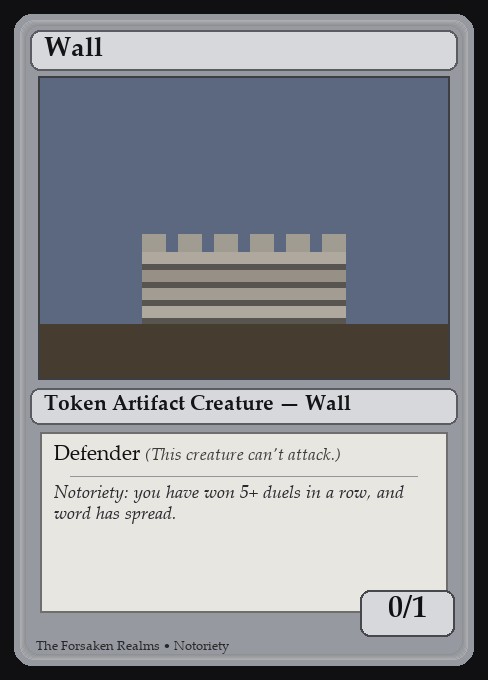
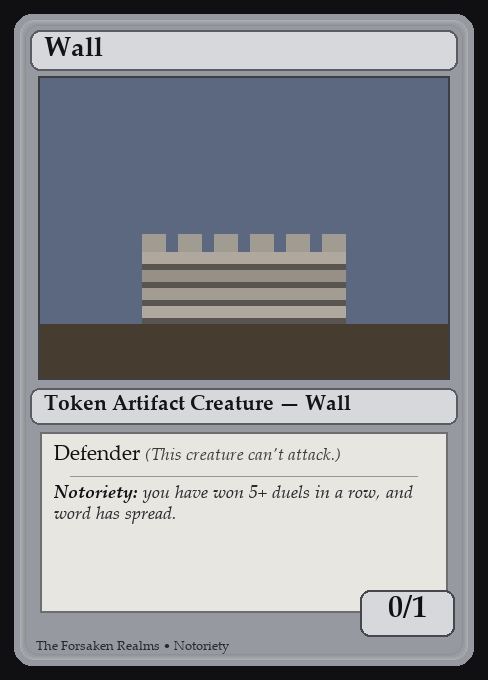
Round 417: no notoriety notice, a bold Notoriety line, quieter logs
- The notoriety Wall no longer opens a notice before each duel (the user: "It gets
  annoying. The card text informs the player"); the Wall card's why line now starts
  with a bold "Notoriety:" (make_wall_cards.py draw_why, the 12 cards rebuilt).
- [TFR-ShopEditions]: the build menu's per-shop card counts log nothing (one
  "recounted" line per town instead), and a shop with the same restriction as the
  line above prints "same as above" - a shared player log was half these lines.
- DuelScene: "Item N not found." only for a really missing item (stock printed it,
  without a newline, for every equipped item with no duel effect - a Rally rune).
- [TFR-InnEditions] picked= names the block and its sets, not its land set
  ("picked=M19" for an Ultimate Masters draft).

Changed region(s): [[0.123, 0.7103, 0.8607, 0.7412]]

diff --git a/forge-gui-mobile/src/forge/adventure/scene/DuelScene.java b/forge-gui-mobile/src/forge/adventure/scene/DuelScene.java
@@ -801,14 +801,6 @@ public class DuelScene extends ForgeScene {
                 + " and it forgets.";
     }
 
-    /** Round 411: what the player is told when notoriety hands an enemy a Wall. */
-    private static String notorietyNote(EnemyData e, String wallScript, forge.item.PaperToken wall) {
-        String extra = wallScript.contains("flying") ? " flying" : wallScript.contains("reach") ? " reach" : "";
-        return "Word of your " + Current.player().notorietyStreak() + " wins in a row has spread. "
-                + e.getTieredDisplayName() + " starts this duel with a " + wall.getRules().getPower() + "/"
-                + wall.getRules().getToughness() + extra + " Wall in play. Lose once, and the word dies down.";
-    }
-
     @Override
     public void enter() {
         winStreakNote = null; // round 404: set again below for each enemy seat on a win streak
@@ -899,8 +891,10 @@ public class DuelScene extends ForgeScene {
                 if (item != null && item.effect != null) {
                     playerEffects.add(item.effect);
                     if (item.effect.opponent != null) oppEffects.add(item.effect.opponent);
-                } else {
-                    System.err.printf("Item %s not found.", id);
+                } else if (item == null) {
+                    // Round 417: stock printed this for an item with no duel effect too (a Rally rune), and with no
+                    // newline, gluing it to the next log line. Only a really missing item is worth a line.
+                    System.err.println("Item " + id + " not found.");
                 }
             }
         }
@@ -1099,7 +1093,8 @@ public class DuelScene extends ForgeScene {
                     java.util.List<IPaperCard> walls = new java.util.ArrayList<>();
                     walls.add(wall);
                     aiPlayer.addExtraCardsOnBattlefield(walls);
-                    winStreakNote = (winStreakNote == null ? "" : winStreakNote + "\n\n") + notorietyNote(currentEnemy, wallScript, wall);
+                    // Round 417 (the user: "remove the Notoriety notification on each duel. It gets annoying. The card text
+                    // informs the player what's going on"): no notice - the Wall card's own Notoriety line explains it.
                     System.out.println("[TFR-Notoriety] " + currentEnemy.getName() + " (" + EnemyData.tierDisplayName(currentEnemy.tier)
                             + ") starts with " + wallScript + " (" + wall.getRules().getPower() + "/" + wall.getRules().getToughness()
                             + ") - " + Current.player().notorietyStreak() + " wins in a row, level " + Current.player().notorietyLevel());

diff --git a/forge-gui-mobile/src/forge/adventure/util/EditionProgression.java b/forge-gui-mobile/src/forge/adventure/util/EditionProgression.java
@@ -46,6 +46,8 @@ public class EditionProgression {
     private static final String[] GROUPS = {"white", "blue", "black", "red", "green", NEUTRAL};
     private static final String[] COLOR_GROUPS = {"white", "blue", "black", "red", "green"};
     private static final int NEUTRAL_SHARD_SIZE = 12;
+    /** Round 417: the town/owner/restriction of the last [TFR-ShopEditions] line, so a repeat prints short. */
+    private static String lastShopEditionsKey;
 
     /** Every real, obtainable edition this plane could ever show - the same CAN_MAKE_BOOSTER +
      *  hasBoosterTemplate filter the existing "cardPackShop" booster-generation code already uses
@@ -488,9 +490,17 @@ public class EditionProgression {
             editionRestriction = getEditionsForColor(world, ownerLabel);
         }
         String townName = rootPoint != null ? rootPoint.getData().name : "(unknown)";
-        System.out.println("[TFR-ShopEditions] shop=" + shopNameForLogging + " town=\"" + townName + "\""
-                + " owner=" + ownerLabel + " reason=" + reason + " trigger=" + trigger
-                + " restriction(" + editionRestriction.size() + ")=" + editionRestriction);
+        // Round 417 (a shared player log: 1,234 of these lines were half its 491 KB). The build menu's card counts
+        // ("shop-count", ~200 shop types per town visit) log nothing - EconomyBuildings.buyableCardCount prints one line
+        // per recount instead - and a shop with the same town/owner/restriction as the last line says so briefly.
+        if (!"shop-count".equals(trigger)) {
+            String key = townName + "|" + ownerLabel + "|" + reason + "|" + editionRestriction;
+            boolean same = key.equals(lastShopEditionsKey);
+            lastShopEditionsKey = key;
+            System.out.println("[TFR-ShopEditions] shop=" + shopNameForLogging + " town=\"" + townName + "\""
+                    + " owner=" + ownerLabel + " reason=" + reason + " trigger=" + trigger
+                    + (same ? " restriction: same as above" : " restriction(" + editionRestriction.size() + ")=" + editionRestriction));
+        }
         List<RewardData> restricted = restrictToEditions(source, editionRestriction, true);
 
         // Armory item-rarity venue stamp (user spec 2026-08-31). This is the single stamping

diff --git a/dev-tools/wall_tokens/make_wall_cards.py b/dev-tools/wall_tokens/make_wall_cards.py
@@ -116,6 +116,24 @@ def why_line(toughness):
     return f"Notoriety: you have won {toughness * WINS_PER_LEVEL}+ duels in a row, and word has spread."
 
 
+LEAD = "Notoriety:"   # round 417 (the user: "put the Notoriety text in bold") - the card is the only notice now
+
+
+def draw_why(d, text, x0, y, width):
+    """The why line in italic with its LEAD word bold italic, word-wrapped across both fonts. Returns the next y."""
+    italic, bold = font("palai.ttf", 18), font("palabi.ttf", 18)
+    space = d.textlength(" ", font=italic)
+    x = x0
+    for i, word in enumerate(text.split()):
+        f = bold if i == 0 and word == LEAD else italic
+        w = d.textlength(word, font=f)
+        if x > x0 and x + w > x0 + width:
+            x, y = x0, y + 21
+        d.text((x, y), word, font=f, fill=(40, 40, 46) if f is italic else (16, 16, 20))
+        x += w + space
+    return y + 21
+
+
 def card(art, keywords, toughness):
     img = Image.new("RGB", (W, H), (16, 16, 18))
     d = ImageDraw.Draw(img)
@@ -150,9 +168,7 @@ def card(art, keywords, toughness):
     # why it is on the field - a rule, then italic like flavor text, kept clear of the P/T box
     d.line([70, y, W - 71, y], fill=(150, 150, 150), width=1)
     y += 8
-    for line in wrap(d, why_line(toughness), font("palai.ttf", 18), W - 41 - 14 - 54):
-        d.text((54, y), line, font=font("palai.ttf", 18), fill=(40, 40, 46))
-        y += 21
+    y = draw_why(d, why_line(toughness), 54, y, W - 41 - 14 - 54)
     # power / toughness
     d.rounded_rectangle([W - 128, 590, W - 34, 636], radius=10, fill=(214, 216, 220), outline=(70, 72, 78), width=2)
     pt = f"0/{toughness}"

diff --git a/forge-gui-mobile/src/forge/adventure/data/AdventureEventData.java b/forge-gui-mobile/src/forge/adventure/data/AdventureEventData.java
@@ -260,7 +260,19 @@ public class AdventureEventData implements Serializable {
                 + " playerUnlocked(" + playerUnlocked.size() + ")=" + playerUnlocked
                 + " neutralShard(" + neutralShard.size() + ")=" + neutralShard
                 + " allowed(" + allowed.size() + ")=" + allowed
-                + " -> " + (picked != null && picked.getLandSet() != null ? "picked=" + picked.getLandSet().getCode() : "NONE (no legal blocks)"));
+                + " -> " + (picked != null ? "picked=" + blockLabel(picked) : "NONE (no legal blocks)"));
+    }
+
+    /** Round 417: the block's own sets, not its land set - "picked=M19" for an Ultimate Masters draft misled a log reader. */
+    private static String blockLabel(CardBlock block) {
+        List<String> codes = new ArrayList<>();
+        for (CardEdition ed : block.getSets())
+            codes.add(ed.getCode());
+        String label = block.getName() + " " + codes;
+        CardEdition land = block.getLandSet();
+        if (land != null && !codes.contains(land.getCode()))
+            label += " (basics from " + land.getCode() + ")";
+        return label;
     }
 
     private static final Predicate<CardEdition> filterPioneer = FModel.getFormats().getPioneer().editionLegalPredicate;

diff --git a/forge-gui-mobile/src/forge/adventure/util/EconomyBuildings.java b/forge-gui-mobile/src/forge/adventure/util/EconomyBuildings.java
@@ -1863,6 +1863,11 @@ public class EconomyBuildings {
         if (!signature.equals(shopCardCountSignature)) {
             shopCardCountCache.clear();
             shopCardCountSignature = signature;
+            // Round 417: one line per recount - the per-shop [TFR-ShopEditions] lines of the count are silent now.
+            PointOfInterest poi = TileMapScene.instance().rootPoint;
+            System.out.println("[TFR-ShopEditions] build-menu card counts recounted for \""
+                    + (poi == null ? "-" : poi.getData().name) + "\" with " + AdventurePlayer.current().getUnlockedEditions().size()
+                    + " unlocked edition(s) (trigger=shop-count, per-shop lines silent)");
         }
         Integer cached = shopCardCountCache.get(shopName);
         if (cached != null)
